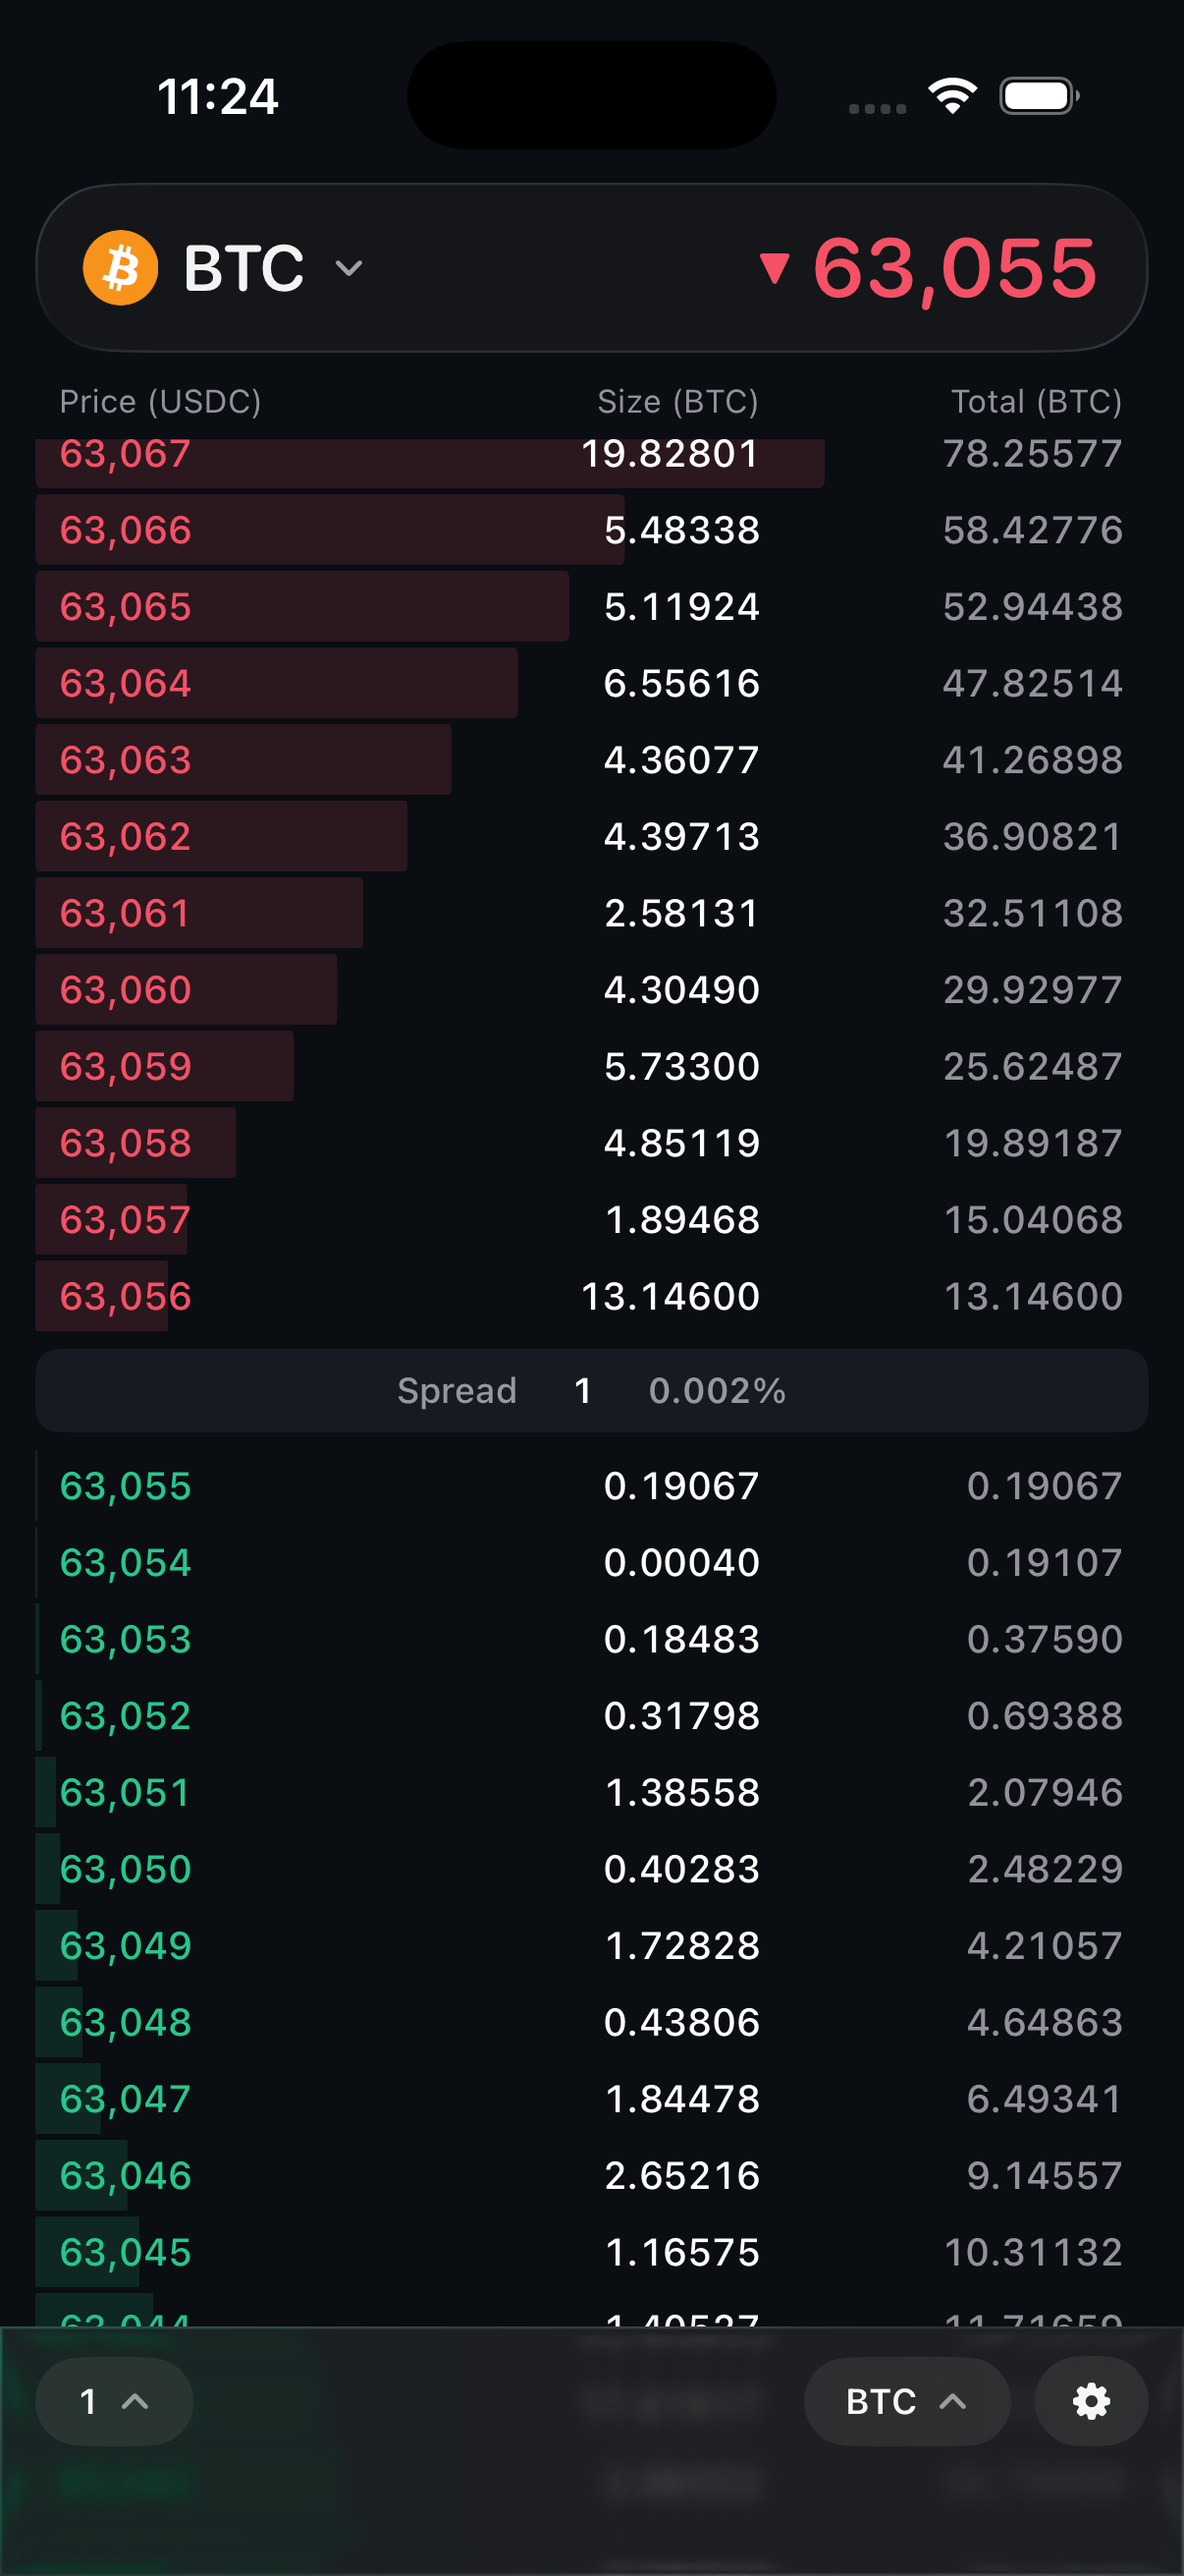
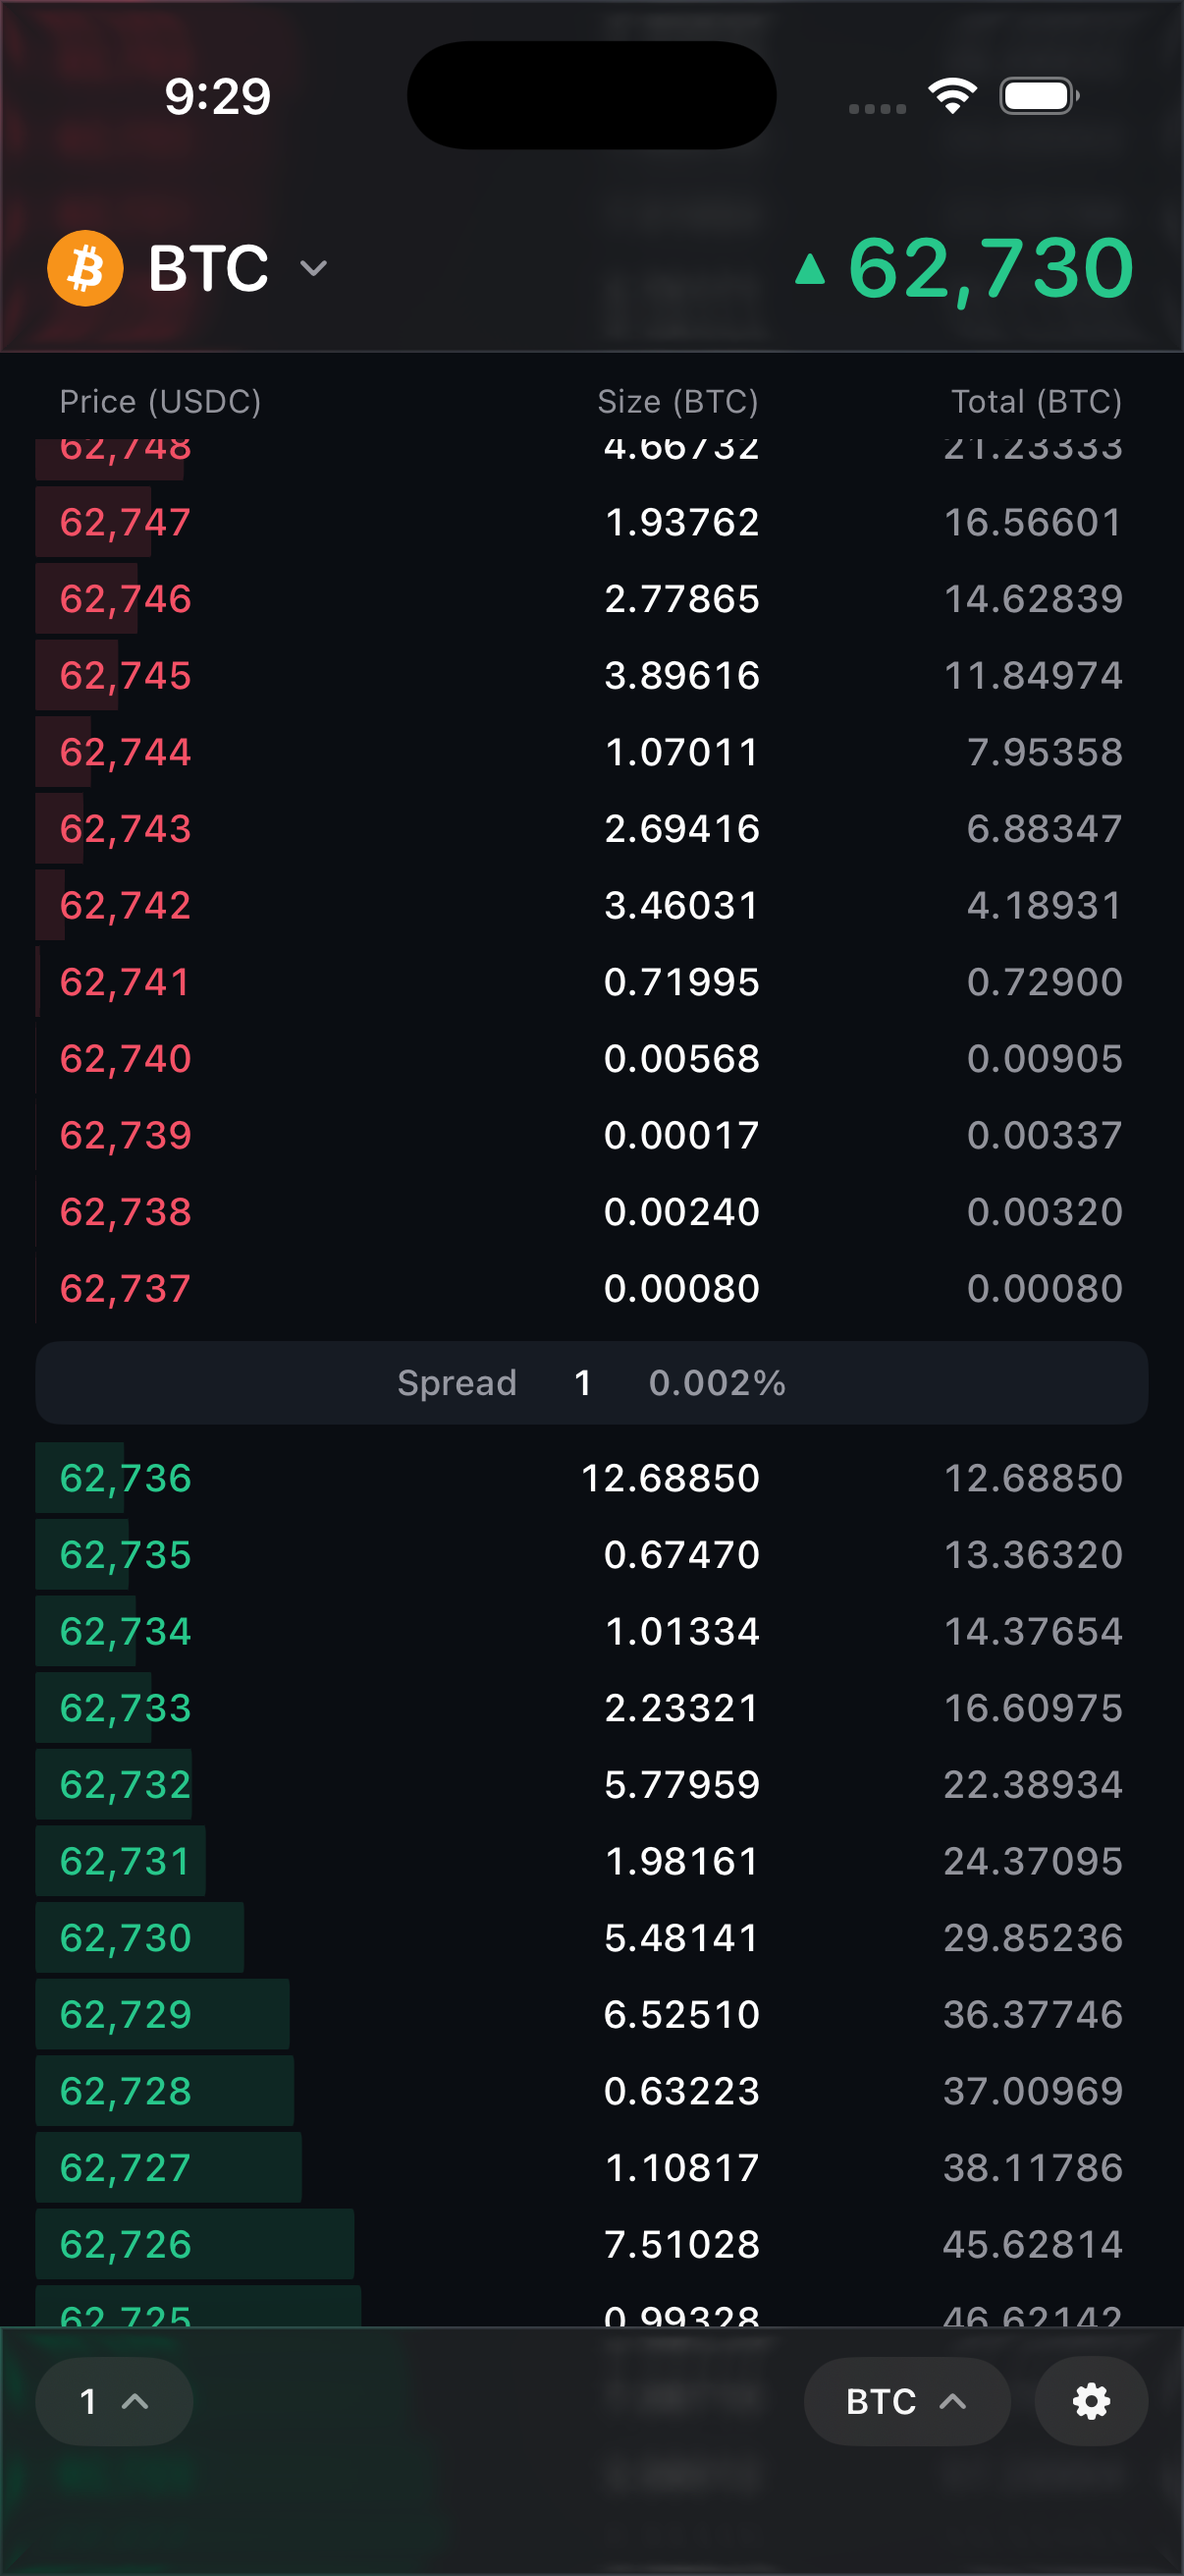
Group the loose sources into Book and Design, and refresh the README

diff --git a/README.md b/README.md
@@ -56,6 +56,11 @@ Written in Swift and SwiftUI only, with no third-party libraries.
 - **Resilience** — The app pings every 45 seconds and reconnects with
   exponential backoff. It closes the socket when the app goes to the
   background and opens it again when the app returns.
+- **Stale prices are marked** — A first connection takes a moment and the
+  spinner already covers that, so nothing extra is shown. But once a
+  connection drops, the numbers on screen are the last ones that arrived, not
+  the market now. The toolbar says "Reconnecting" and the header price dims
+  until frames come back.
 
 ## The feed
 
@@ -94,8 +99,11 @@ resubscribes to `l2Book` only.
 ```
 RootView              owns the view model and the feed's lifecycle, then
                       hands off to the screen.
-Preferences           appearance and haptics, saved across launches. The app
-                      owns it and passes it down the environment.
+Book/
+  PriceGrid           the arithmetic between Hyperliquid's significant-figure
+                      grouping and the tick sizes the UI shows.
+  BookChanges         what moved since the last render, and which of those
+                      moves is worth flashing a row for.
 Feed/
   Models              the types we decode the frames into.
   HyperliquidSocket   the websocket: subscribe and unsubscribe (l2Book,
@@ -126,7 +134,23 @@ Design/
   Theme               colors, from the asset catalog (light and dark).
   Haptics             prepared feedback with a global mute.
   GlassBackground     Liquid Glass on iOS 26, a material fallback below that.
+  Preferences         which of those the user picked, saved across launches.
+                      The app owns it and passes it down the environment.
 ```
+
+## Tests
+
+`HLOrderbookTests` covers the logic that does not need a socket, using Swift
+Testing. Run it with `⌘U`, or:
+
+```
+xcodebuild test -scheme HLOrderbook -destination 'platform=iOS Simulator,name=iPhone 17'
+```
+
+The three suites are `PriceGrid` (tick sizes and header precision at real BTC
+and ETH magnitudes), `BookChanges` (when a row flashes and, mostly, when it
+does not), and `OrderbookViewModel` (what it restores at launch, what it
+saves, and what the toolbar reads off it).
 
 ## Performance
 
